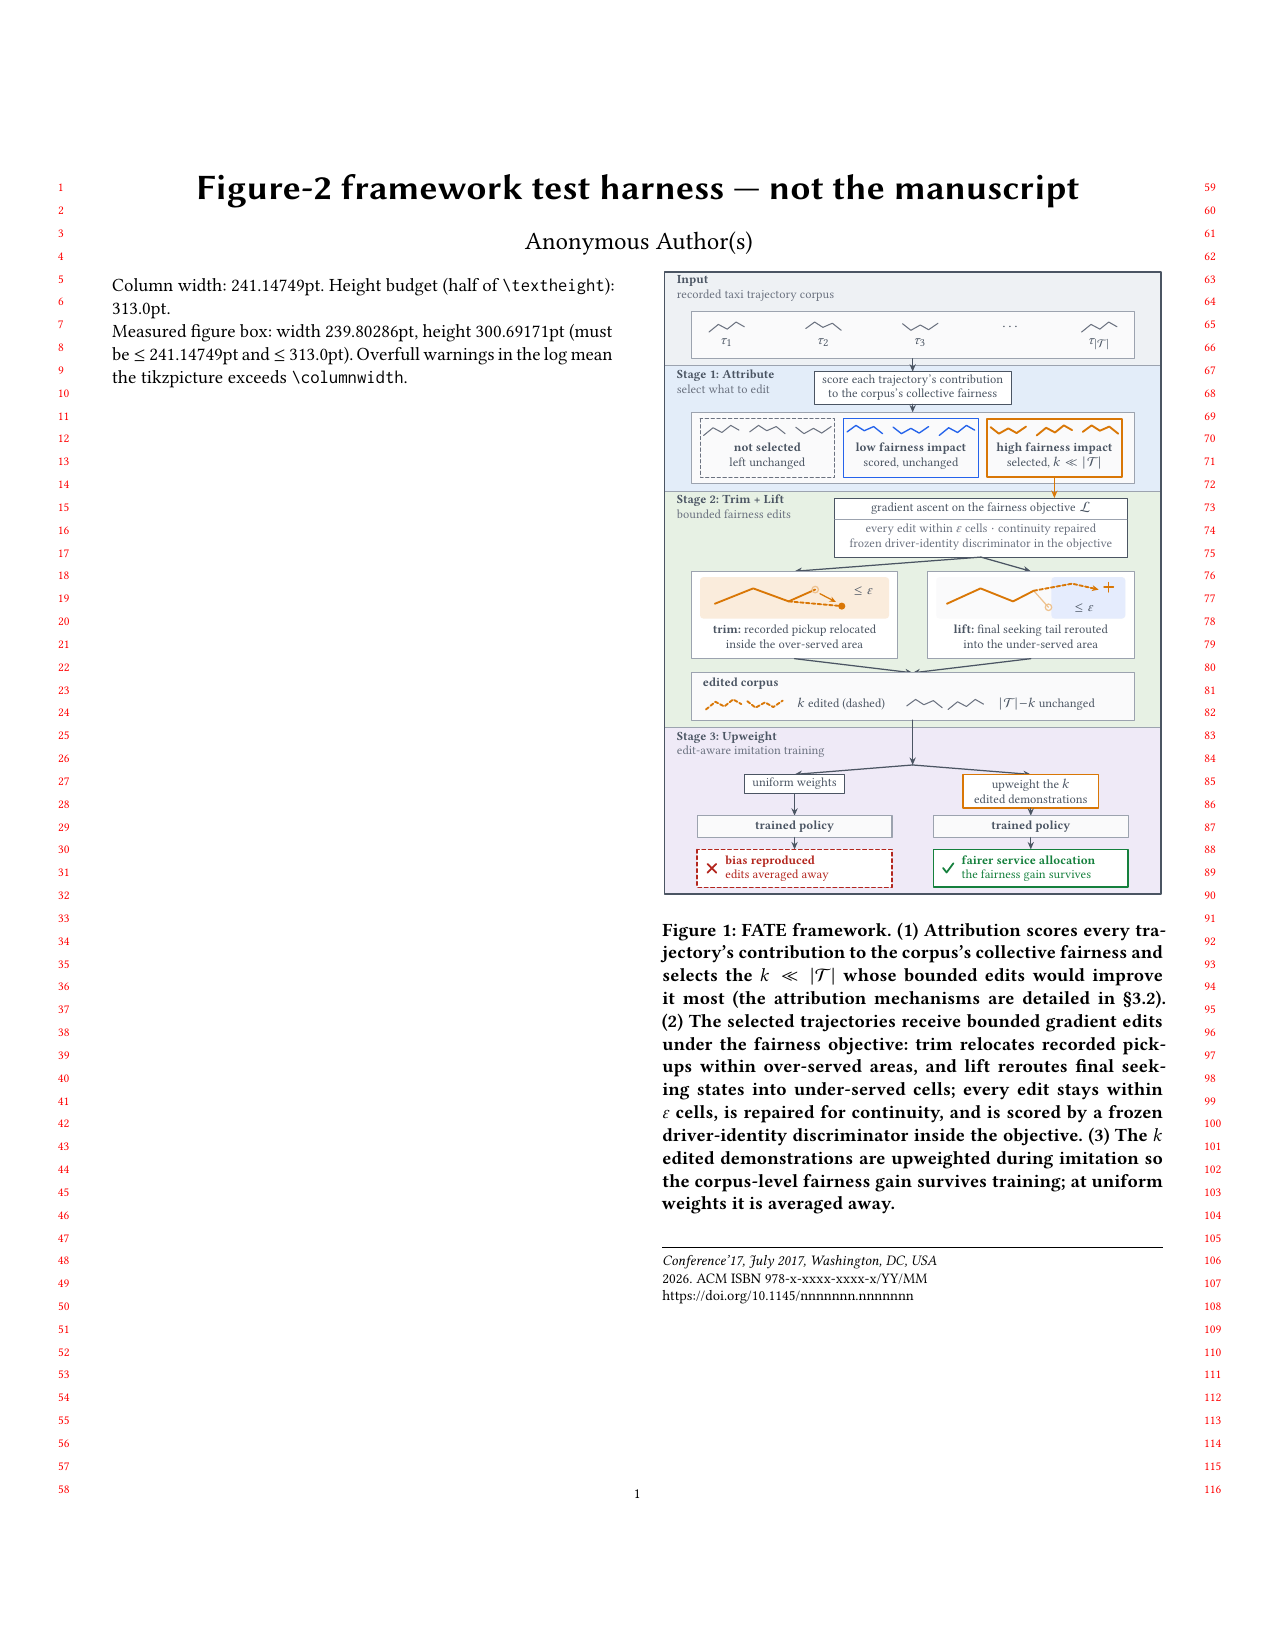
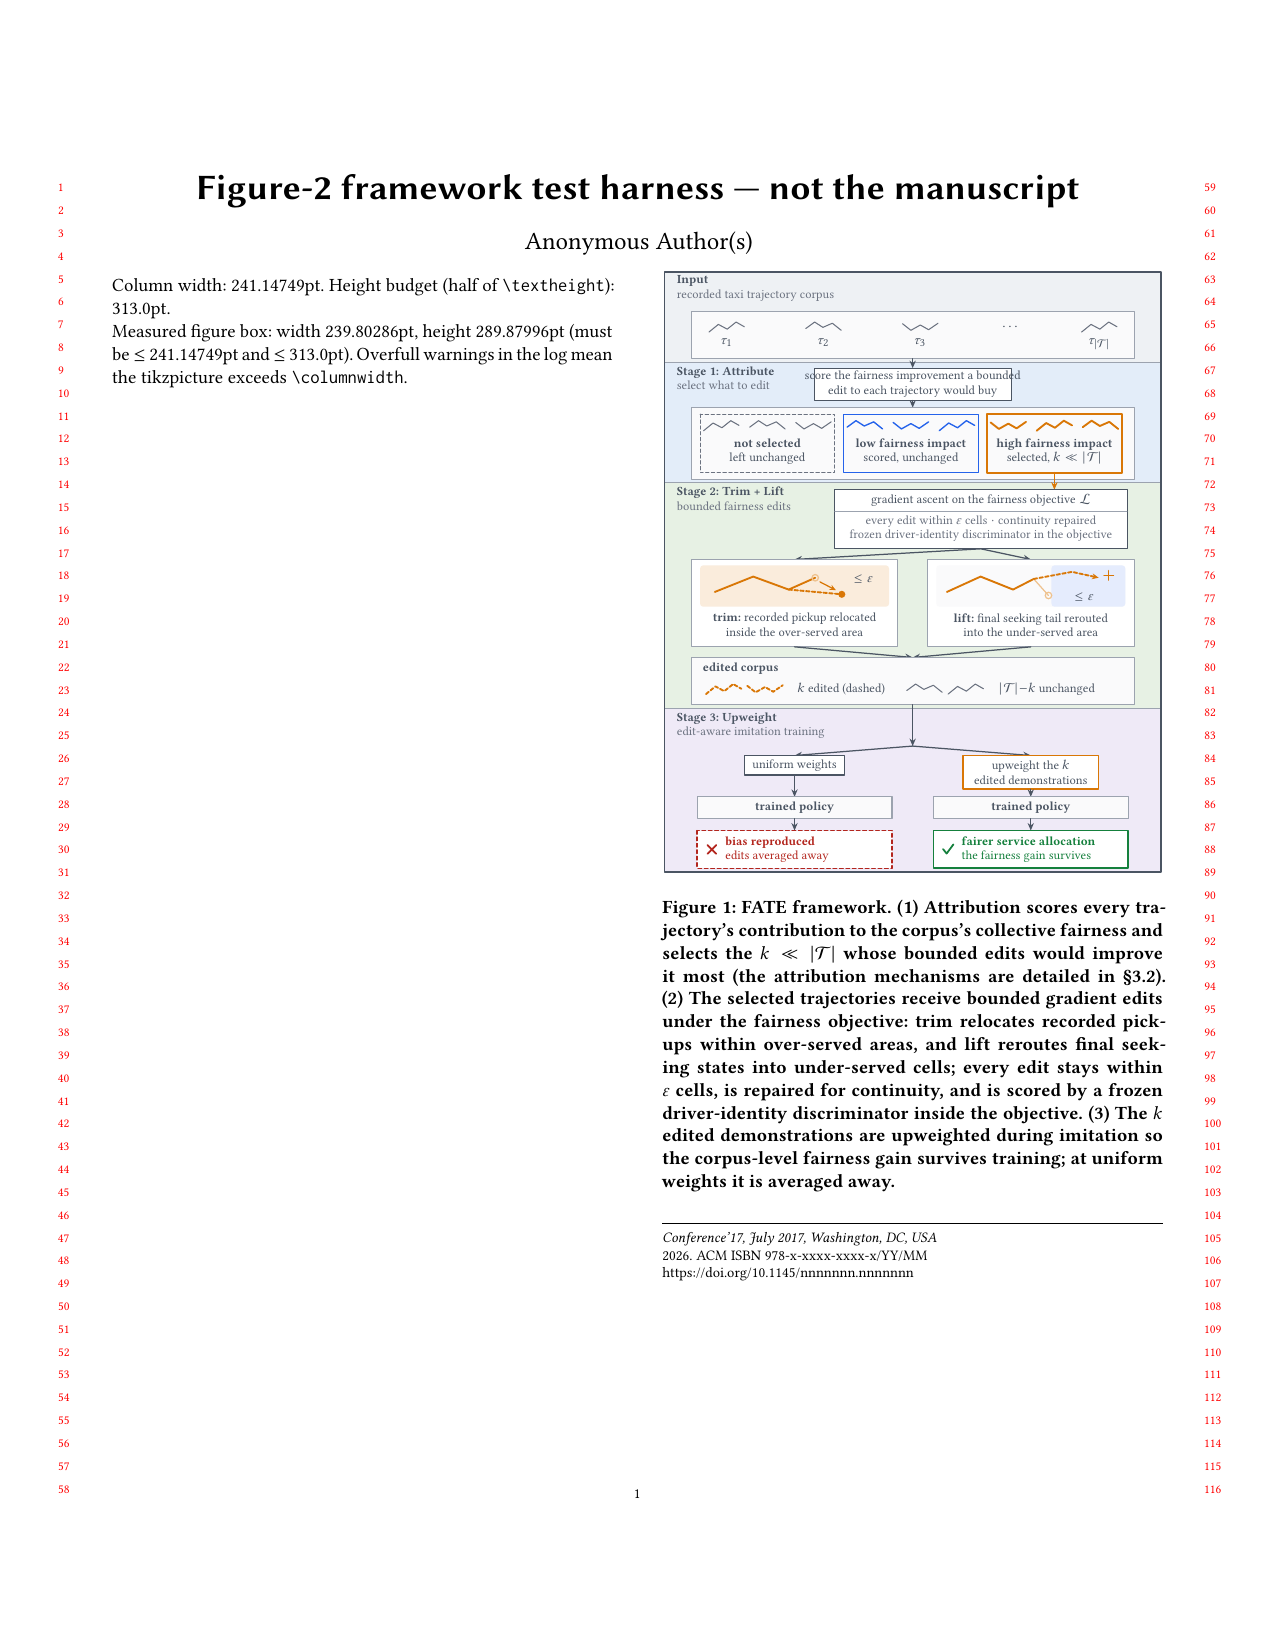
paper(restructure review-fixes): #2 Fig-2 caption+op-box now score edit-improvement not trajectory-contribution (D3); #3 C2 pointer to sec:phys-validity; #4 ring-(iii) qualifier restored in abstract+intro; #6 opener logic; #7 RQ org sentence; #14 'for Y' restored; #9 checklist coverage note; figure 

Changed region(s): [[0.52, 0.2164, 0.9176, 0.8036], [0.3976, 0.1855, 0.4282, 0.2164]]

diff --git a/paper/sections/03_methodology.tex b/paper/sections/03_methodology.tex
@@ -16,9 +16,9 @@ FATE has two stages: a budgeted, constrained edit of the recorded corpus, and
 an edit-aware weighting of the edited demonstrations during imitation. Neither
 is sufficient alone: the edit makes the corpus fairer, and the weighting keeps
 that fairness from being averaged away in training. Figure~\ref{fig:overview}
-sketches the pipeline, whose three coarse steps (attribute, edit, upweight)
-follow the five blocks below; each block answers one challenge of
-\S\ref{sec:overview}, named in its opening sentence.
+sketches the pipeline; its three coarse steps (attribute, edit, upweight)
+are the order the five blocks below follow, and each block answers one
+challenge of \S\ref{sec:overview}, named in its opening sentence.
 % src: restructure/meeting/analysis_C_claims.md C-2 (the two-stage wording,
 % adopted as proposed); MEETING_DIGEST.md decision #6 (leading paragraph).
 % 2026-07-24 (T9, page-budget lever a): the explicit C-map enumeration ("the
@@ -43,9 +43,9 @@ follow the five blocks below; each block answers one challenge of
   % own two edit-glyph labels already carry verbatim; and the closing "at uniform
   % weights it is averaged away", which the figure's terminal contrast box states
   % ("bias reproduced / edits averaged away"). No claim removed.
-  \caption{FATE framework (schematic). (1) Attribution scores every
-  trajectory's contribution to the corpus's collective fairness and selects
-  the $k \ll |\mathcal{T}|$ whose bounded edits would improve it most
+  \caption{FATE framework (schematic). (1) Attribution scores how much a
+  bounded, admissible edit to each trajectory would improve the corpus's
+  collective fairness, and selects the $k \ll |\mathcal{T}|$ best
   (\S\ref{sec:attribution}). (2) The selected trajectories receive bounded
   gradient edits under the fairness objective through the two channels trim
   and lift; every edit stays within $\varepsilon$ cells, is repaired for

diff --git a/paper/sections/00_abstract.tex b/paper/sections/00_abstract.tex
@@ -41,7 +41,8 @@ FATE therefore couples a limited edit budget with edit-aware weighting to
 preserve the influence of these targeted interventions. We instantiate FATE for
 taxi mobility and evaluate it on real-world HSTD from Shenzhen and San
 Francisco. Results show that editing a
-small fraction of the corpus improves multiple fairness measures and increases
+small fraction of the corpus improves multiple established fairness measures
+the objective never optimizes, and increases
 distinct-taxi presence in under-served areas. Edit-aware weighting further
 preserves these gains in learned policies, demonstrating that sparse, targeted
 trajectory intervention can improve collective service fairness with limited

diff --git a/paper/sections/appendix.tex b/paper/sections/appendix.tex
@@ -138,7 +138,7 @@ demand deficit attribution that picks trim's edits (\S\ref{sec:attribution})
 concentrates in over-served, high-residual cells, so under-served cells are
 never edit candidates. \emph{Leverage}: with supply frozen,
 $\partial Y_i / \partial D_i = -S_i / D_i^{2}$ makes padding demand into
-high-supply advantaged cells more consequential than removing it from starved
+high-supply advantaged cells more consequential for $Y$ than removing it from starved
 ones, and 93\% of disadvantaged units sit at the demand floor $d_0$, where
 removing demand changes nothing. \emph{Supply-side inequity}: median taxi
 presence is 1.8 in disadvantaged cells versus 17.6 in advantaged cells, which

diff --git a/paper/sections/02_overview.tex b/paper/sections/02_overview.tex
@@ -110,7 +110,7 @@ fairness of the whole corpus (\S\ref{sec:editor}).
 \textbf{C2 (fidelity).} A fairness edit is worthless if the result no longer
 reads as its original driver. Each edit is therefore bounded to a small
 neighborhood of the recorded trajectory and scored by a frozen driver-identity
-discriminator inside the editing objective (\S\ref{sec:objective}).
+discriminator inside the editing objective (\S\ref{sec:phys-validity}).
 \textbf{C3 (the wrong target).} Equal service is the wrong target: a business
 district should receive more service than a quiet residential block. The
 objective must score only the service variation demand leaves unexplained

diff --git a/paper/sections/01_introduction.tex b/paper/sections/01_introduction.tex
@@ -156,7 +156,8 @@ influence during downstream training. In the taxi-mobility instantiation
 studied in this paper, outcome-side and resource-aware edits correspond to
 modifying pickup endpoints and rerouting the final passenger-seeking segments,
 respectively. Experiments on real-world HSTD show that FATE consistently
-reduces demographic service disparity, increases distinct-taxi presence in
+reduces demographic service disparity on measures the objective never
+optimizes, increases distinct-taxi presence in
 under-served areas, and preserves metric-level fairness improvements in
 learned policies. Our contributions are summarized as follows:
 

diff --git a/paper/sections/04_experiments.tex b/paper/sections/04_experiments.tex
@@ -18,7 +18,7 @@ The experiments test the two-stage claim end to end: that editing a small,
 bounded share of the recorded trajectories makes the corpus measurably fairer,
 and that edit-aware weighting carries that gain into a trained policy, where
 uniform weighting would average it away. They are organized as five questions,
-each answered by one subsection below.
+answered across the subsections below.
 \textbf{RQ1}: does spending the edit budget where attribution directs it
 improve the corpus's collective fairness, on measures the objective never
 optimizes (\S\ref{sec:exp-data-level})? \textbf{RQ2}: does resource-aware

diff --git a/paper/figures/figure-2/framework.tex b/paper/figures/figure-2/framework.tex
@@ -149,7 +149,7 @@
   \draw[flow] (\spine,-1.47) -- (\spine,-1.63);
   \draw[opbox] (2.53,-1.63) rectangle (5.88,-2.18);
   \node[align=center] at (\spine,-1.905)
-    {score each trajectory's contribution\\to the corpus's collective fairness};
+    {score the fairness improvement a bounded\\edit to each trajectory would buy};
   \draw[flow] (\spine,-2.18) -- (\spine,-2.3);
   \draw[data] (\xL,-2.3) rectangle (\xR,-3.51);
   % --- three groups, coloured by attribution outcome (left to right =

diff --git a/paper/CITATION_PRIORITY_CHECKLIST.md b/paper/CITATION_PRIORITY_CHECKLIST.md
@@ -426,3 +426,12 @@ Metadata upgrades for these are already in the 2026-07-16 report diff, ready if 
   §3.5 prose around `zhang2022cgail` gets rewritten.
 - [ ] The two in-flight terminology decisions (leveling-down → analogy-only; F_causal rename)
   will rewrite prose around ⚑-marked entries — re-read those claim attachments after the rewrite.
+
+<!-- Coverage note (2026-07-24 late, restructure review fix #9): the restructure
+     rebuilt §1's cite groups (9 -> 5 groups; five keys re-homed into the PI's new
+     intro paragraphs: zhao2017menshopping, wang2021directional,
+     hastingsblow2025diffaug, lamalfa2026fairppo, zhao2025fairdrlst) and moved
+     related work to render as §5 (file name unchanged). KEY SET UNCHANGED — no
+     row added or removed; 02_overview.tex carries no cites; lint coverage green
+     at d874d8d. The pre-restructure Coverage paragraph above describes the old
+     file layout. -->
